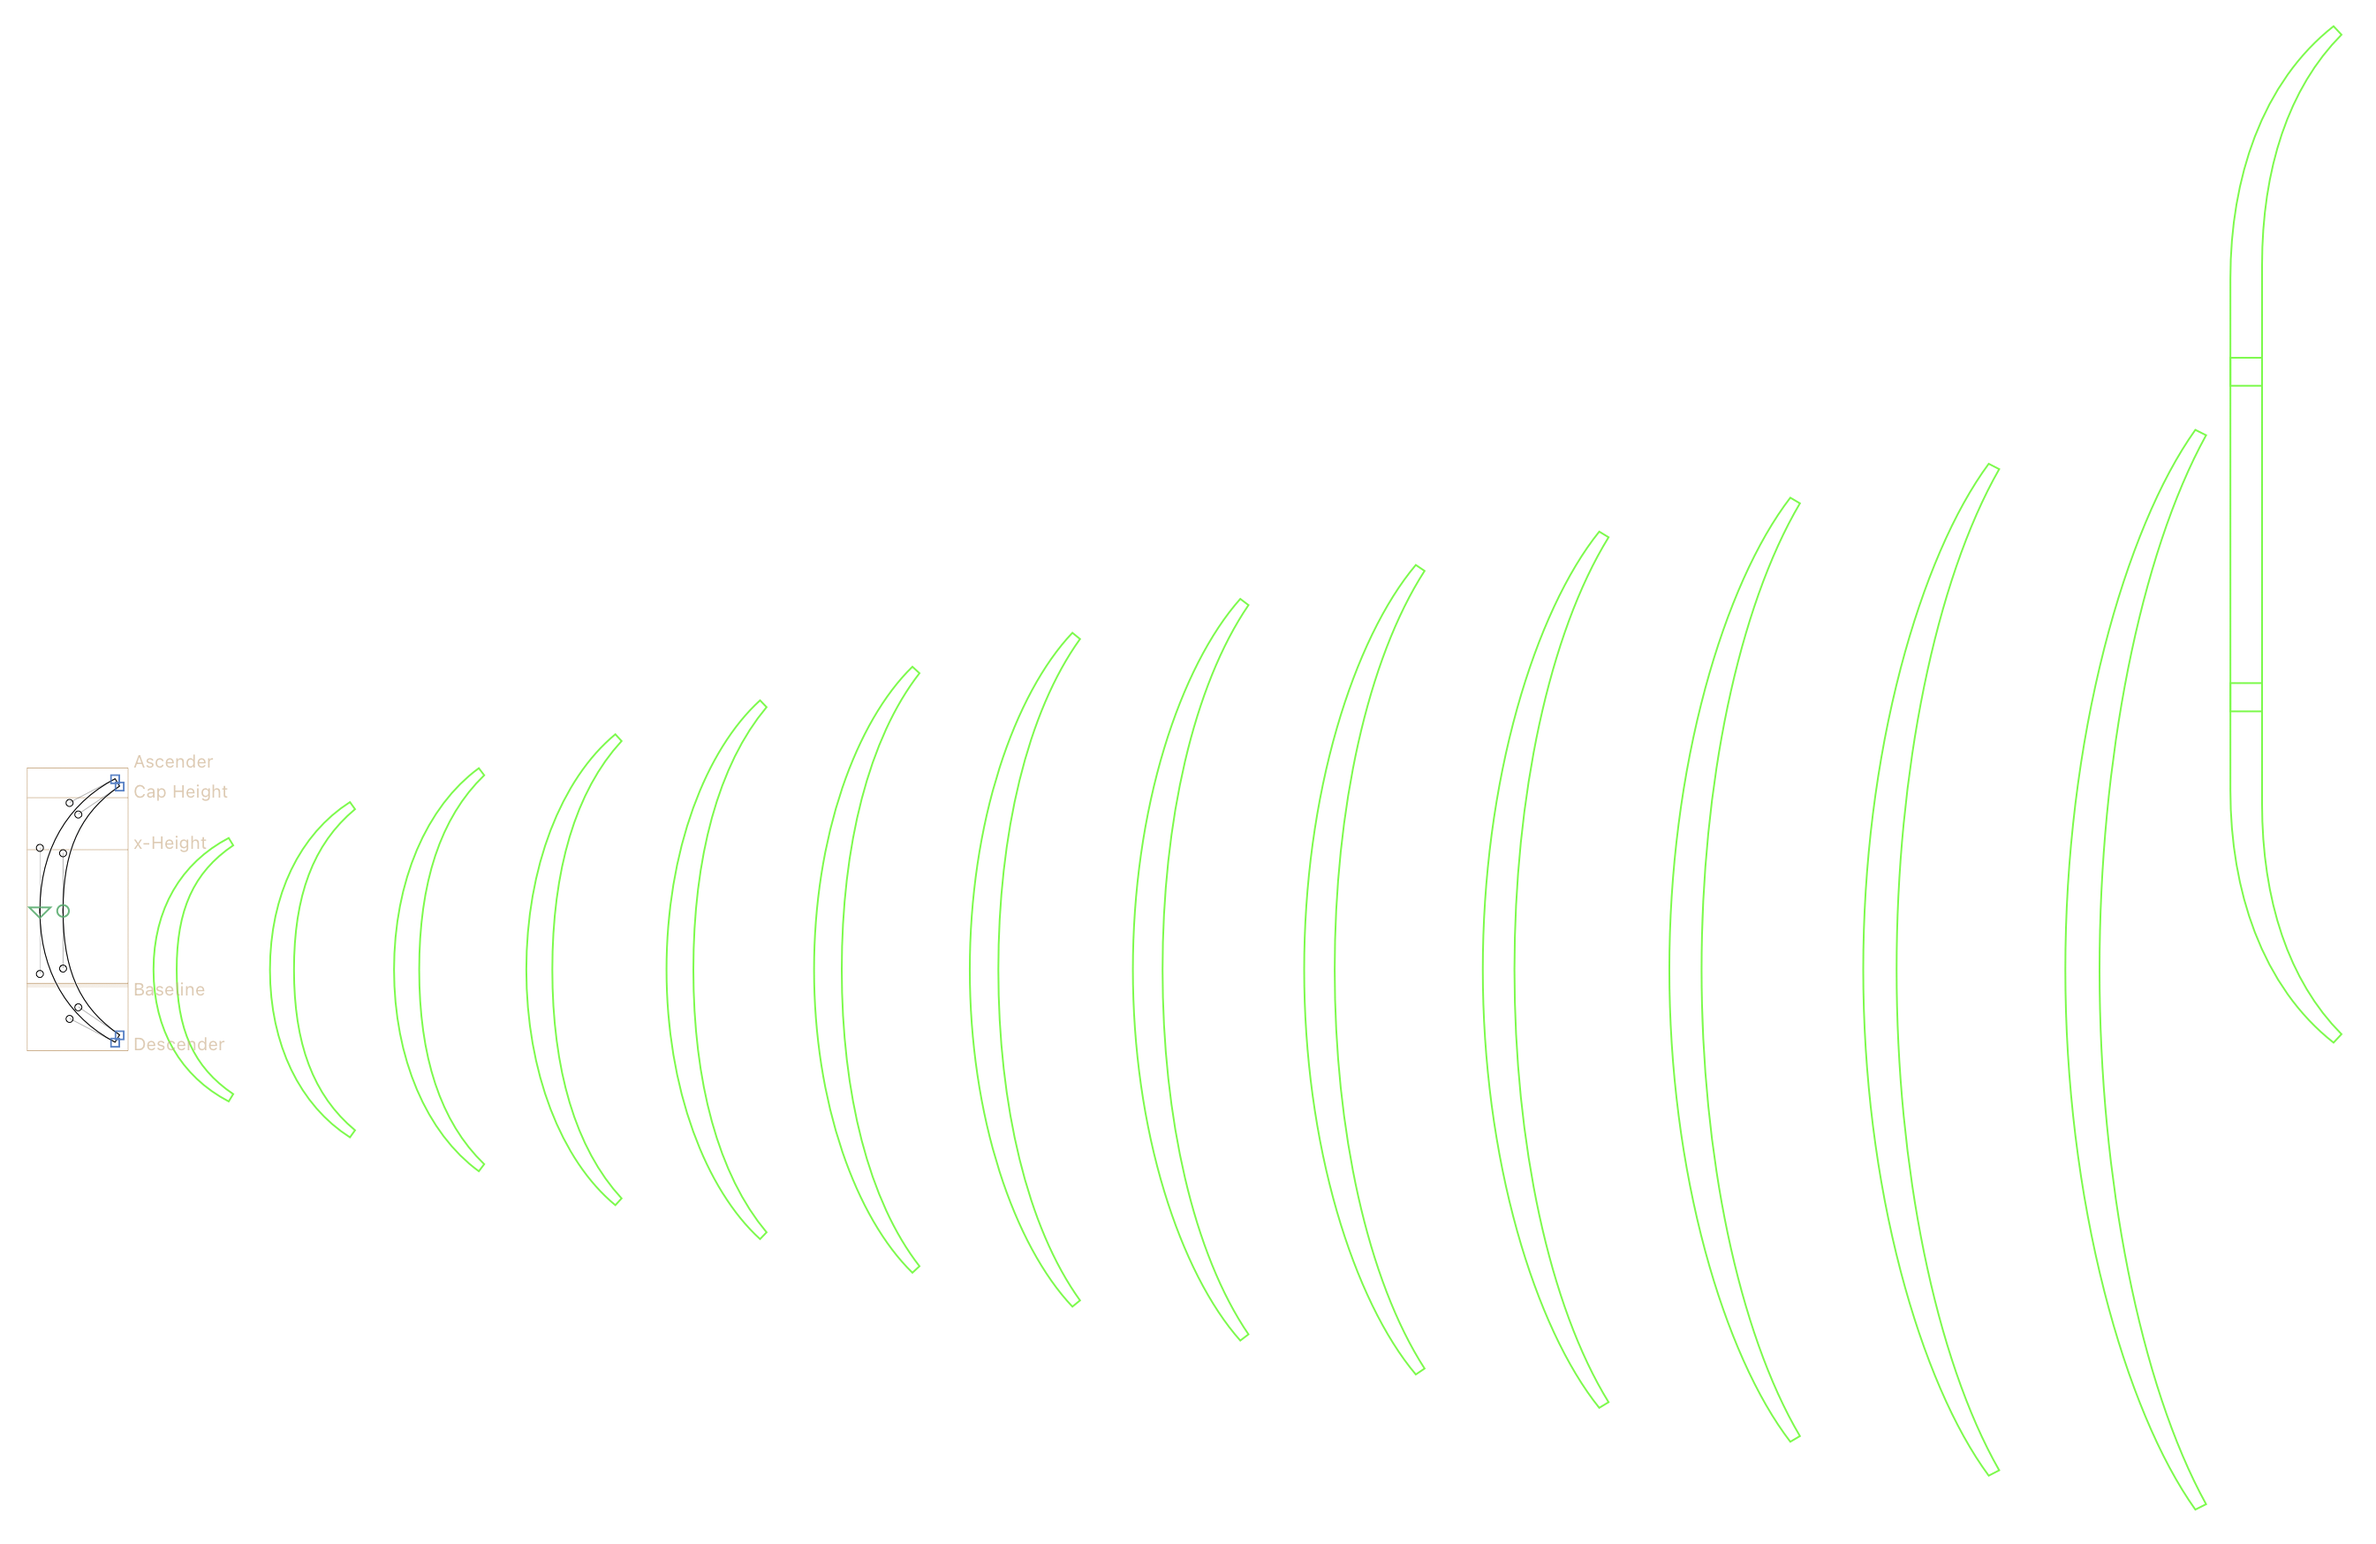
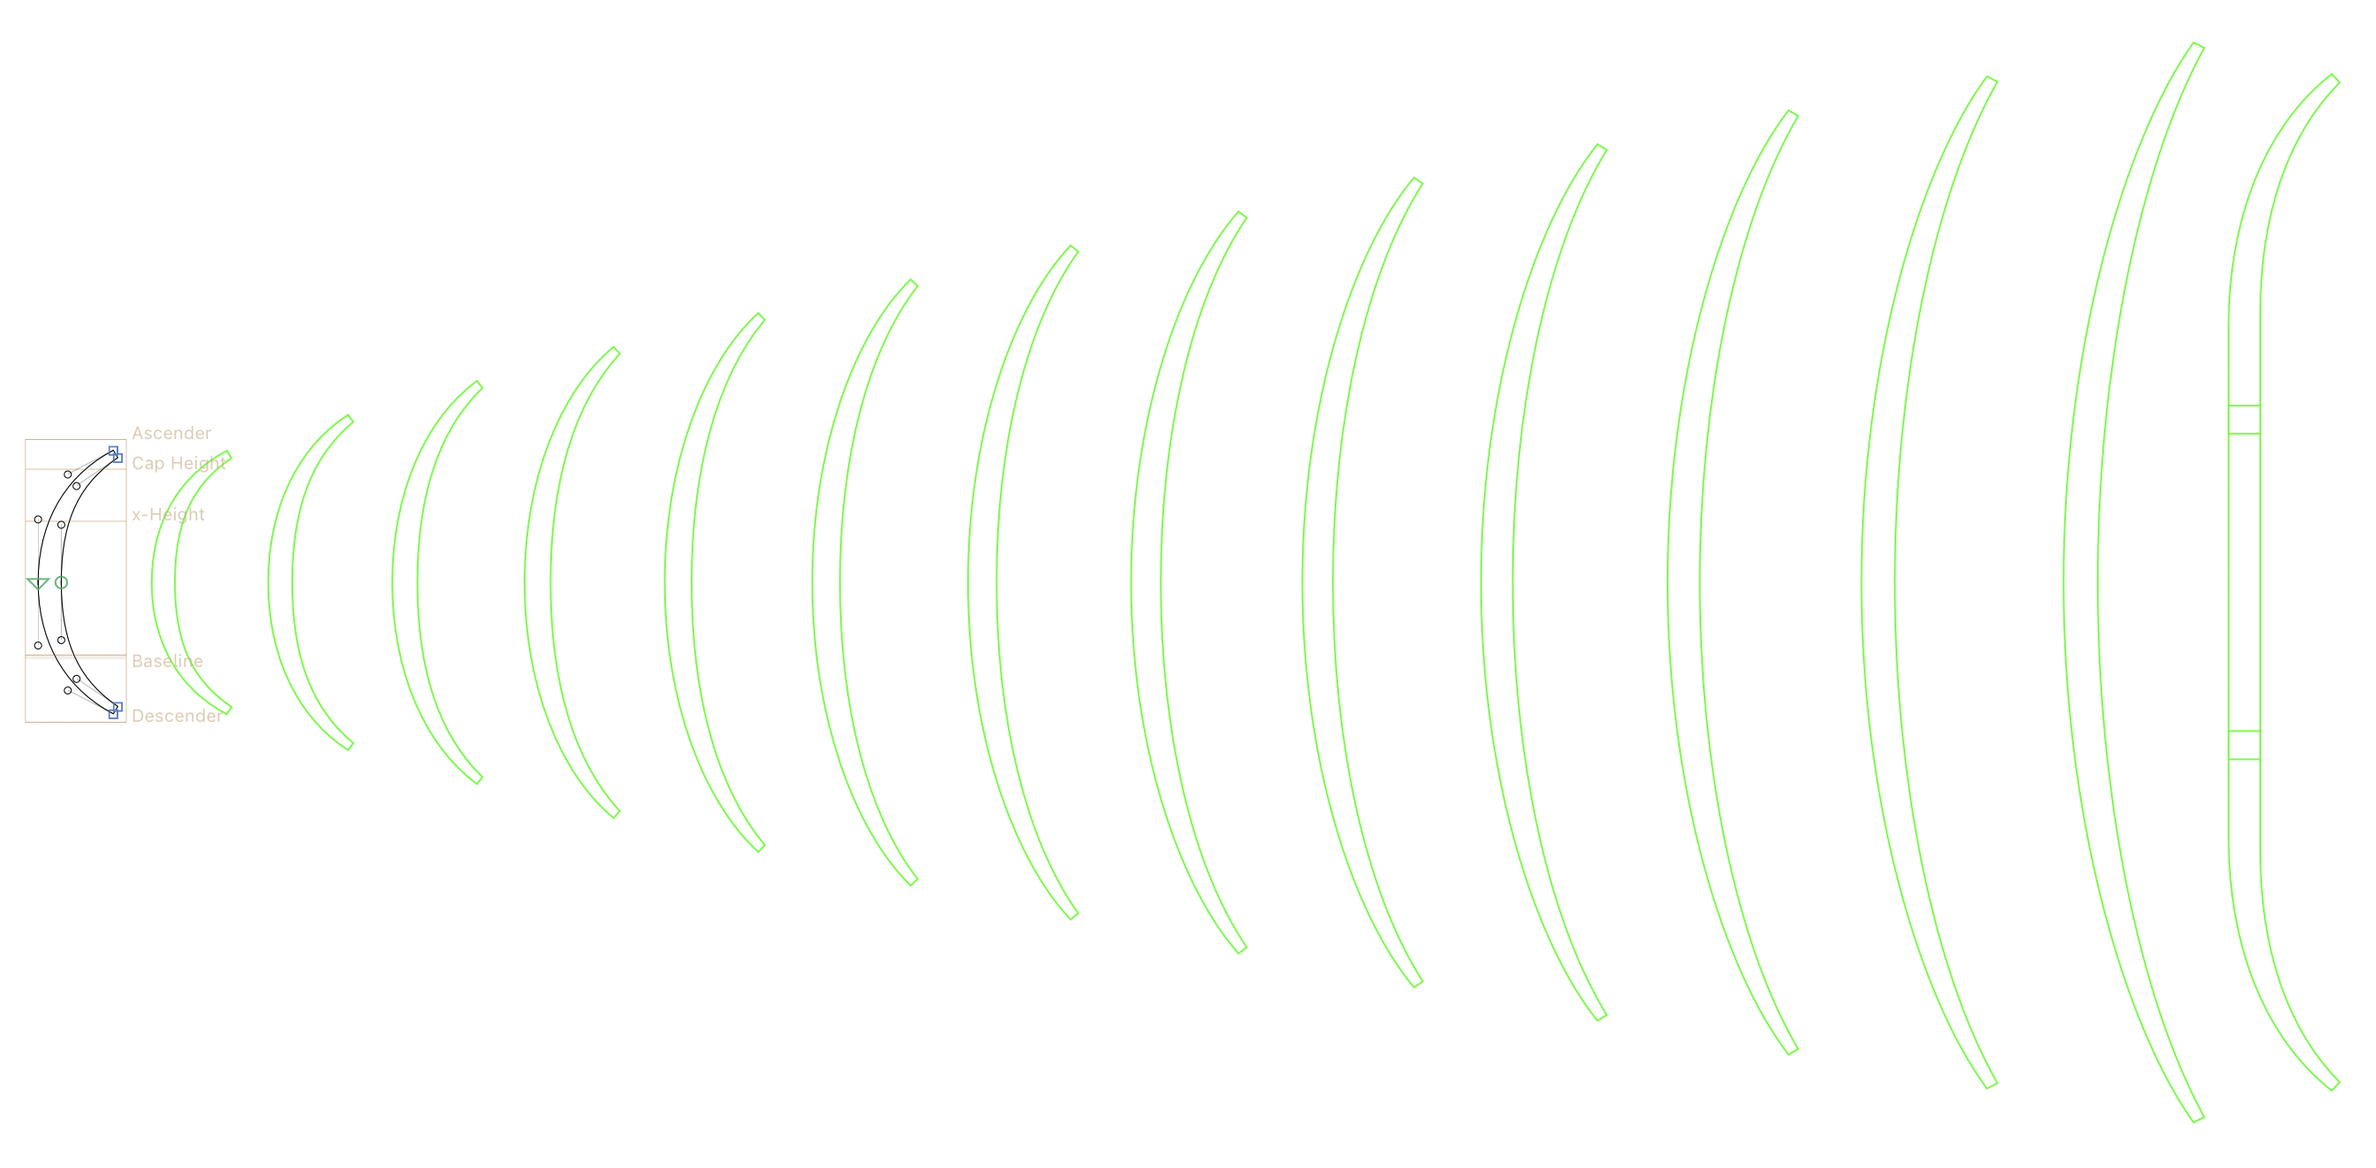
Center drawn vertical assembly

diff --git a/MATHPlugin.glyphsPlugin/Contents/Resources/plugin.py b/MATHPlugin.glyphsPlugin/Contents/Resources/plugin.py
@@ -1132,15 +1132,15 @@ class MATHPlugin(GeneralPlugin):
         minoverlap = layer.master.userData.get(CONSTANTS_ID, {}).get(
             "MinConnectorOverlap", 0
         )
+
         if vertical:
-            translate(0, minoverlap)
-        else:
-            translate(minoverlap, 0)
+            # ensure assembly is centered vertically
+            h = sum(gl(a[0]).layers[layer.layerId].bounds.size.height for a in assembly)
+            h -= (len(assembly) - 1) * minoverlap
+            d = layer.bounds.size.height - h
+            translate(0, layer.bounds.origin.y + d / 2)
+
         for gref, flag, bot, top in assembly:
-            if vertical:
-                translate(0, -minoverlap)
-            else:
-                translate(-minoverlap, 0)
             glyph = gl(gref)
             gref_layer = glyph.layers[layer.layerId]
             w, h = _getMetrics(gref_layer)
@@ -1152,9 +1152,9 @@ class MATHPlugin(GeneralPlugin):
             path.setLineWidth_(width)
             path.stroke()
             if vertical:
-                translate(0, h)
+                translate(0, h - minoverlap)
             else:
-                translate(w, 0)
+                translate(w - minoverlap, 0)
 
         restore()
 
